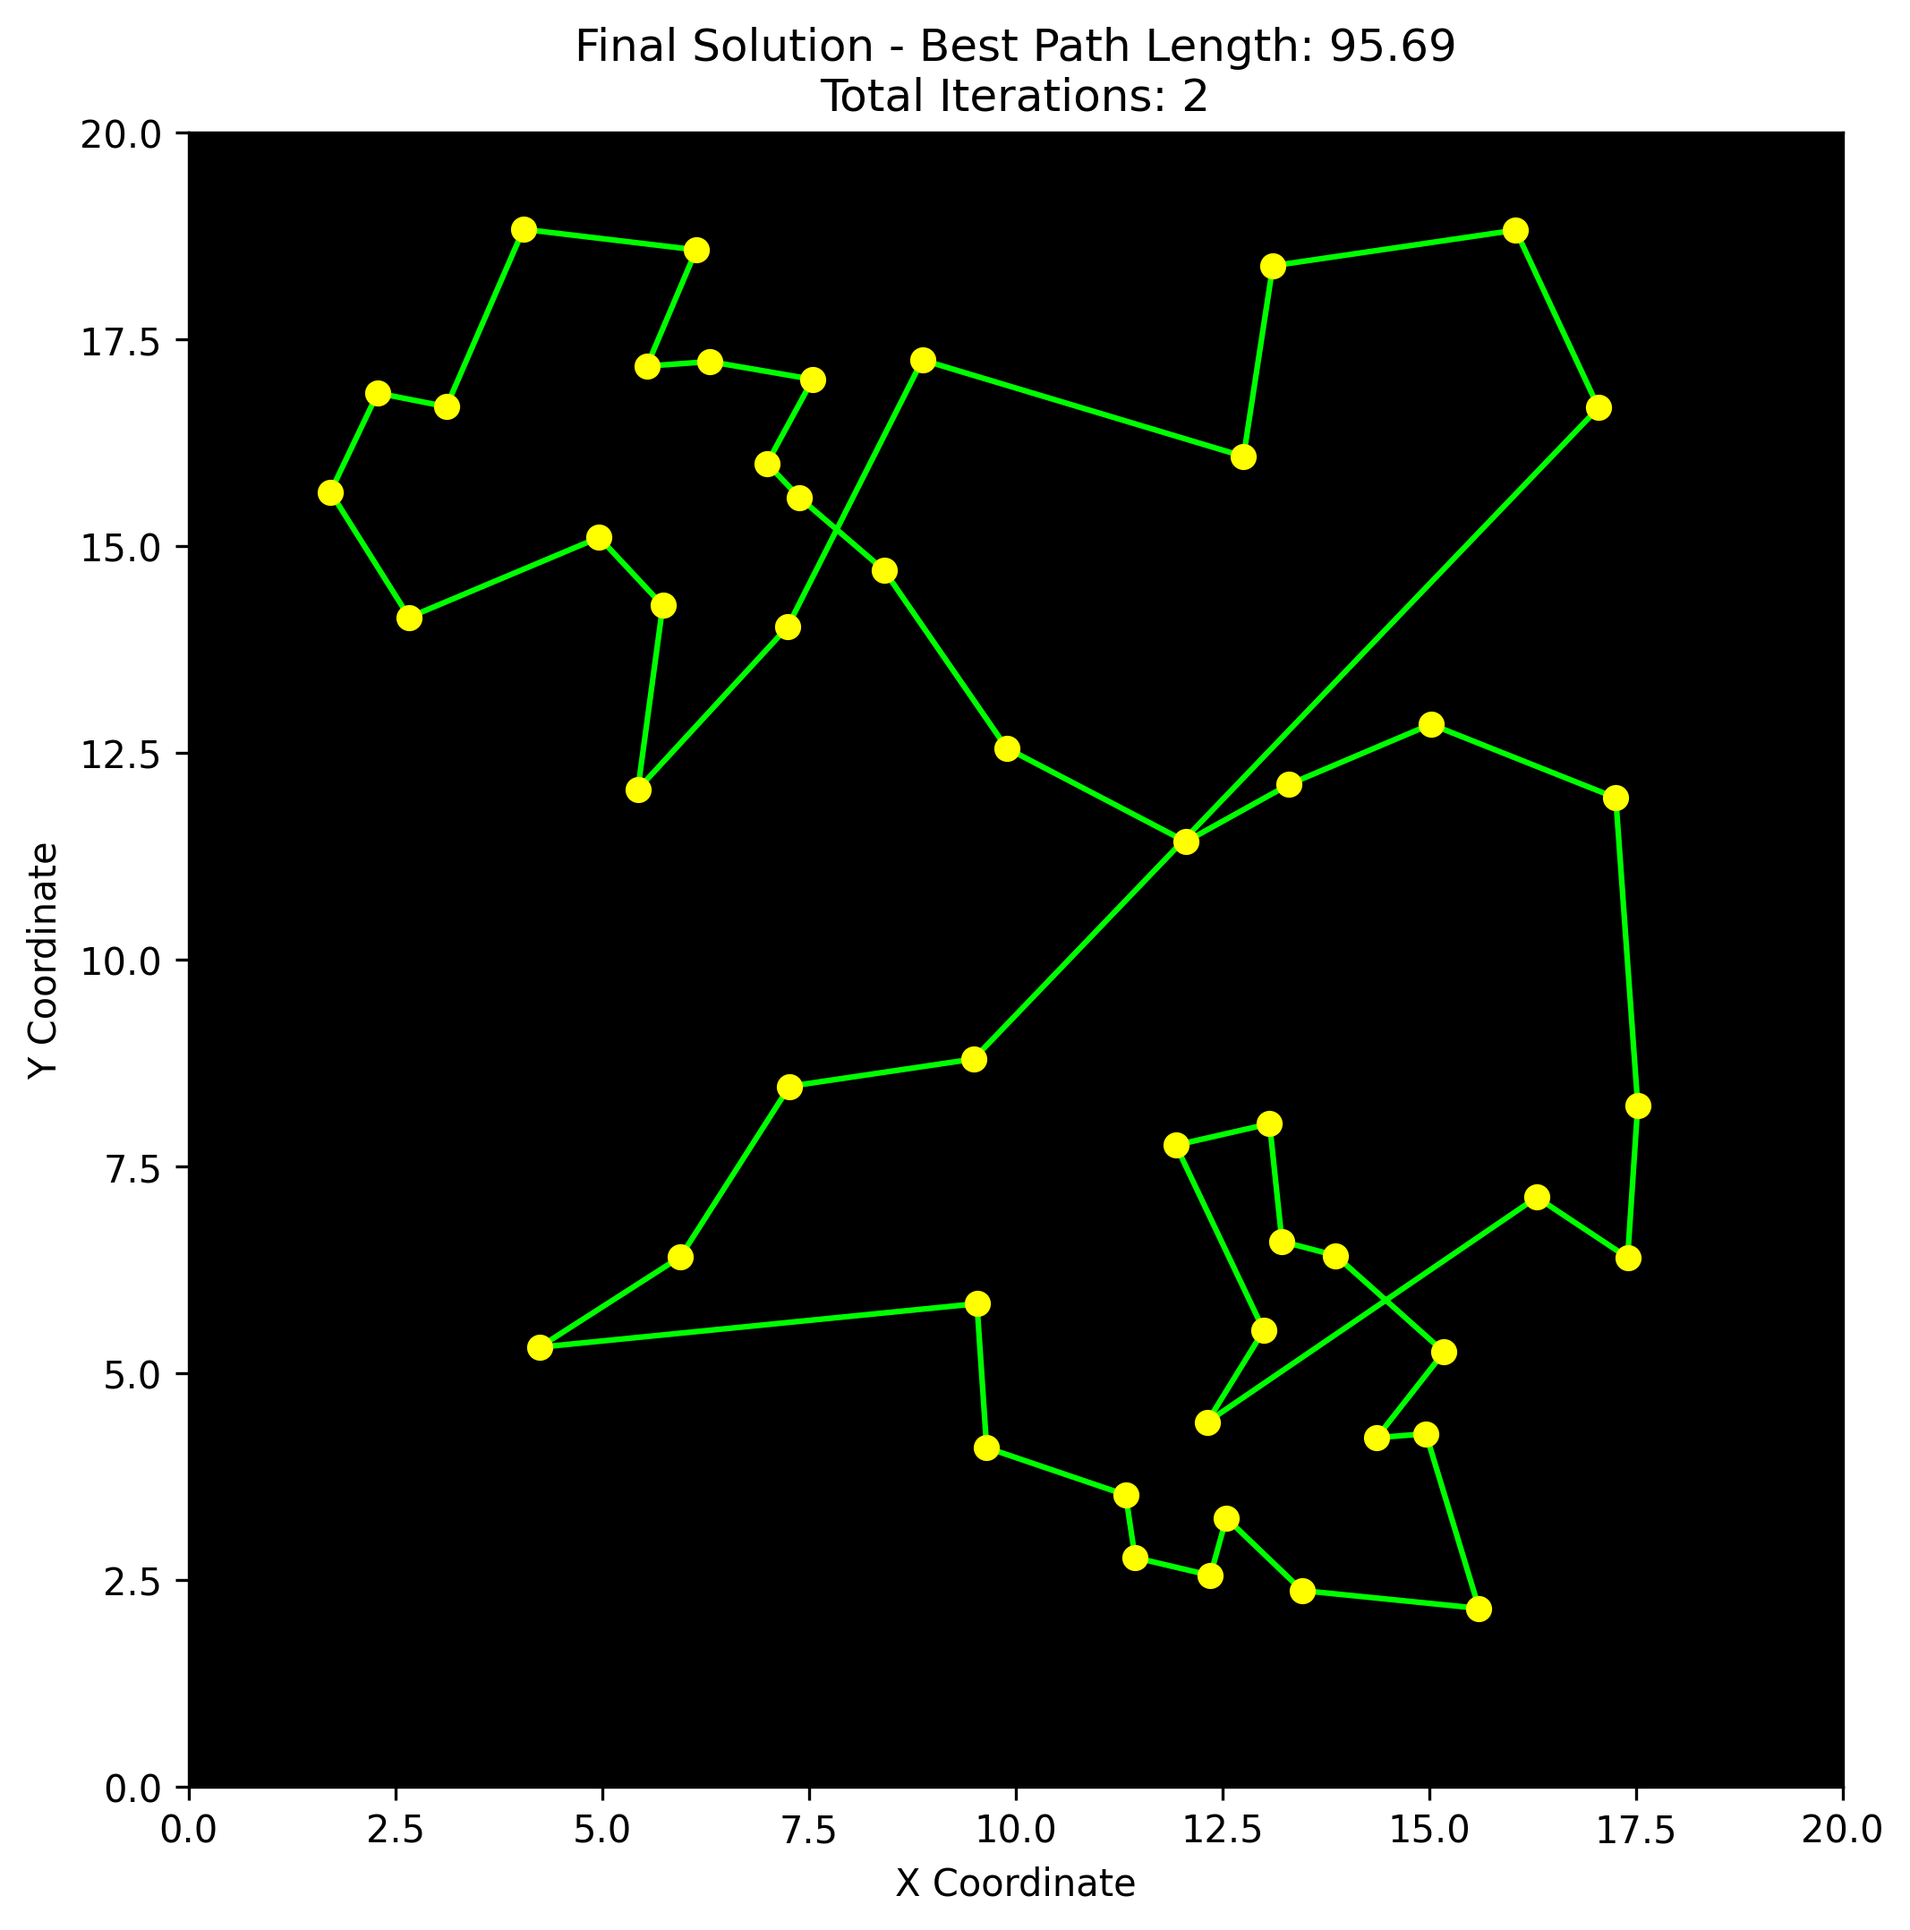
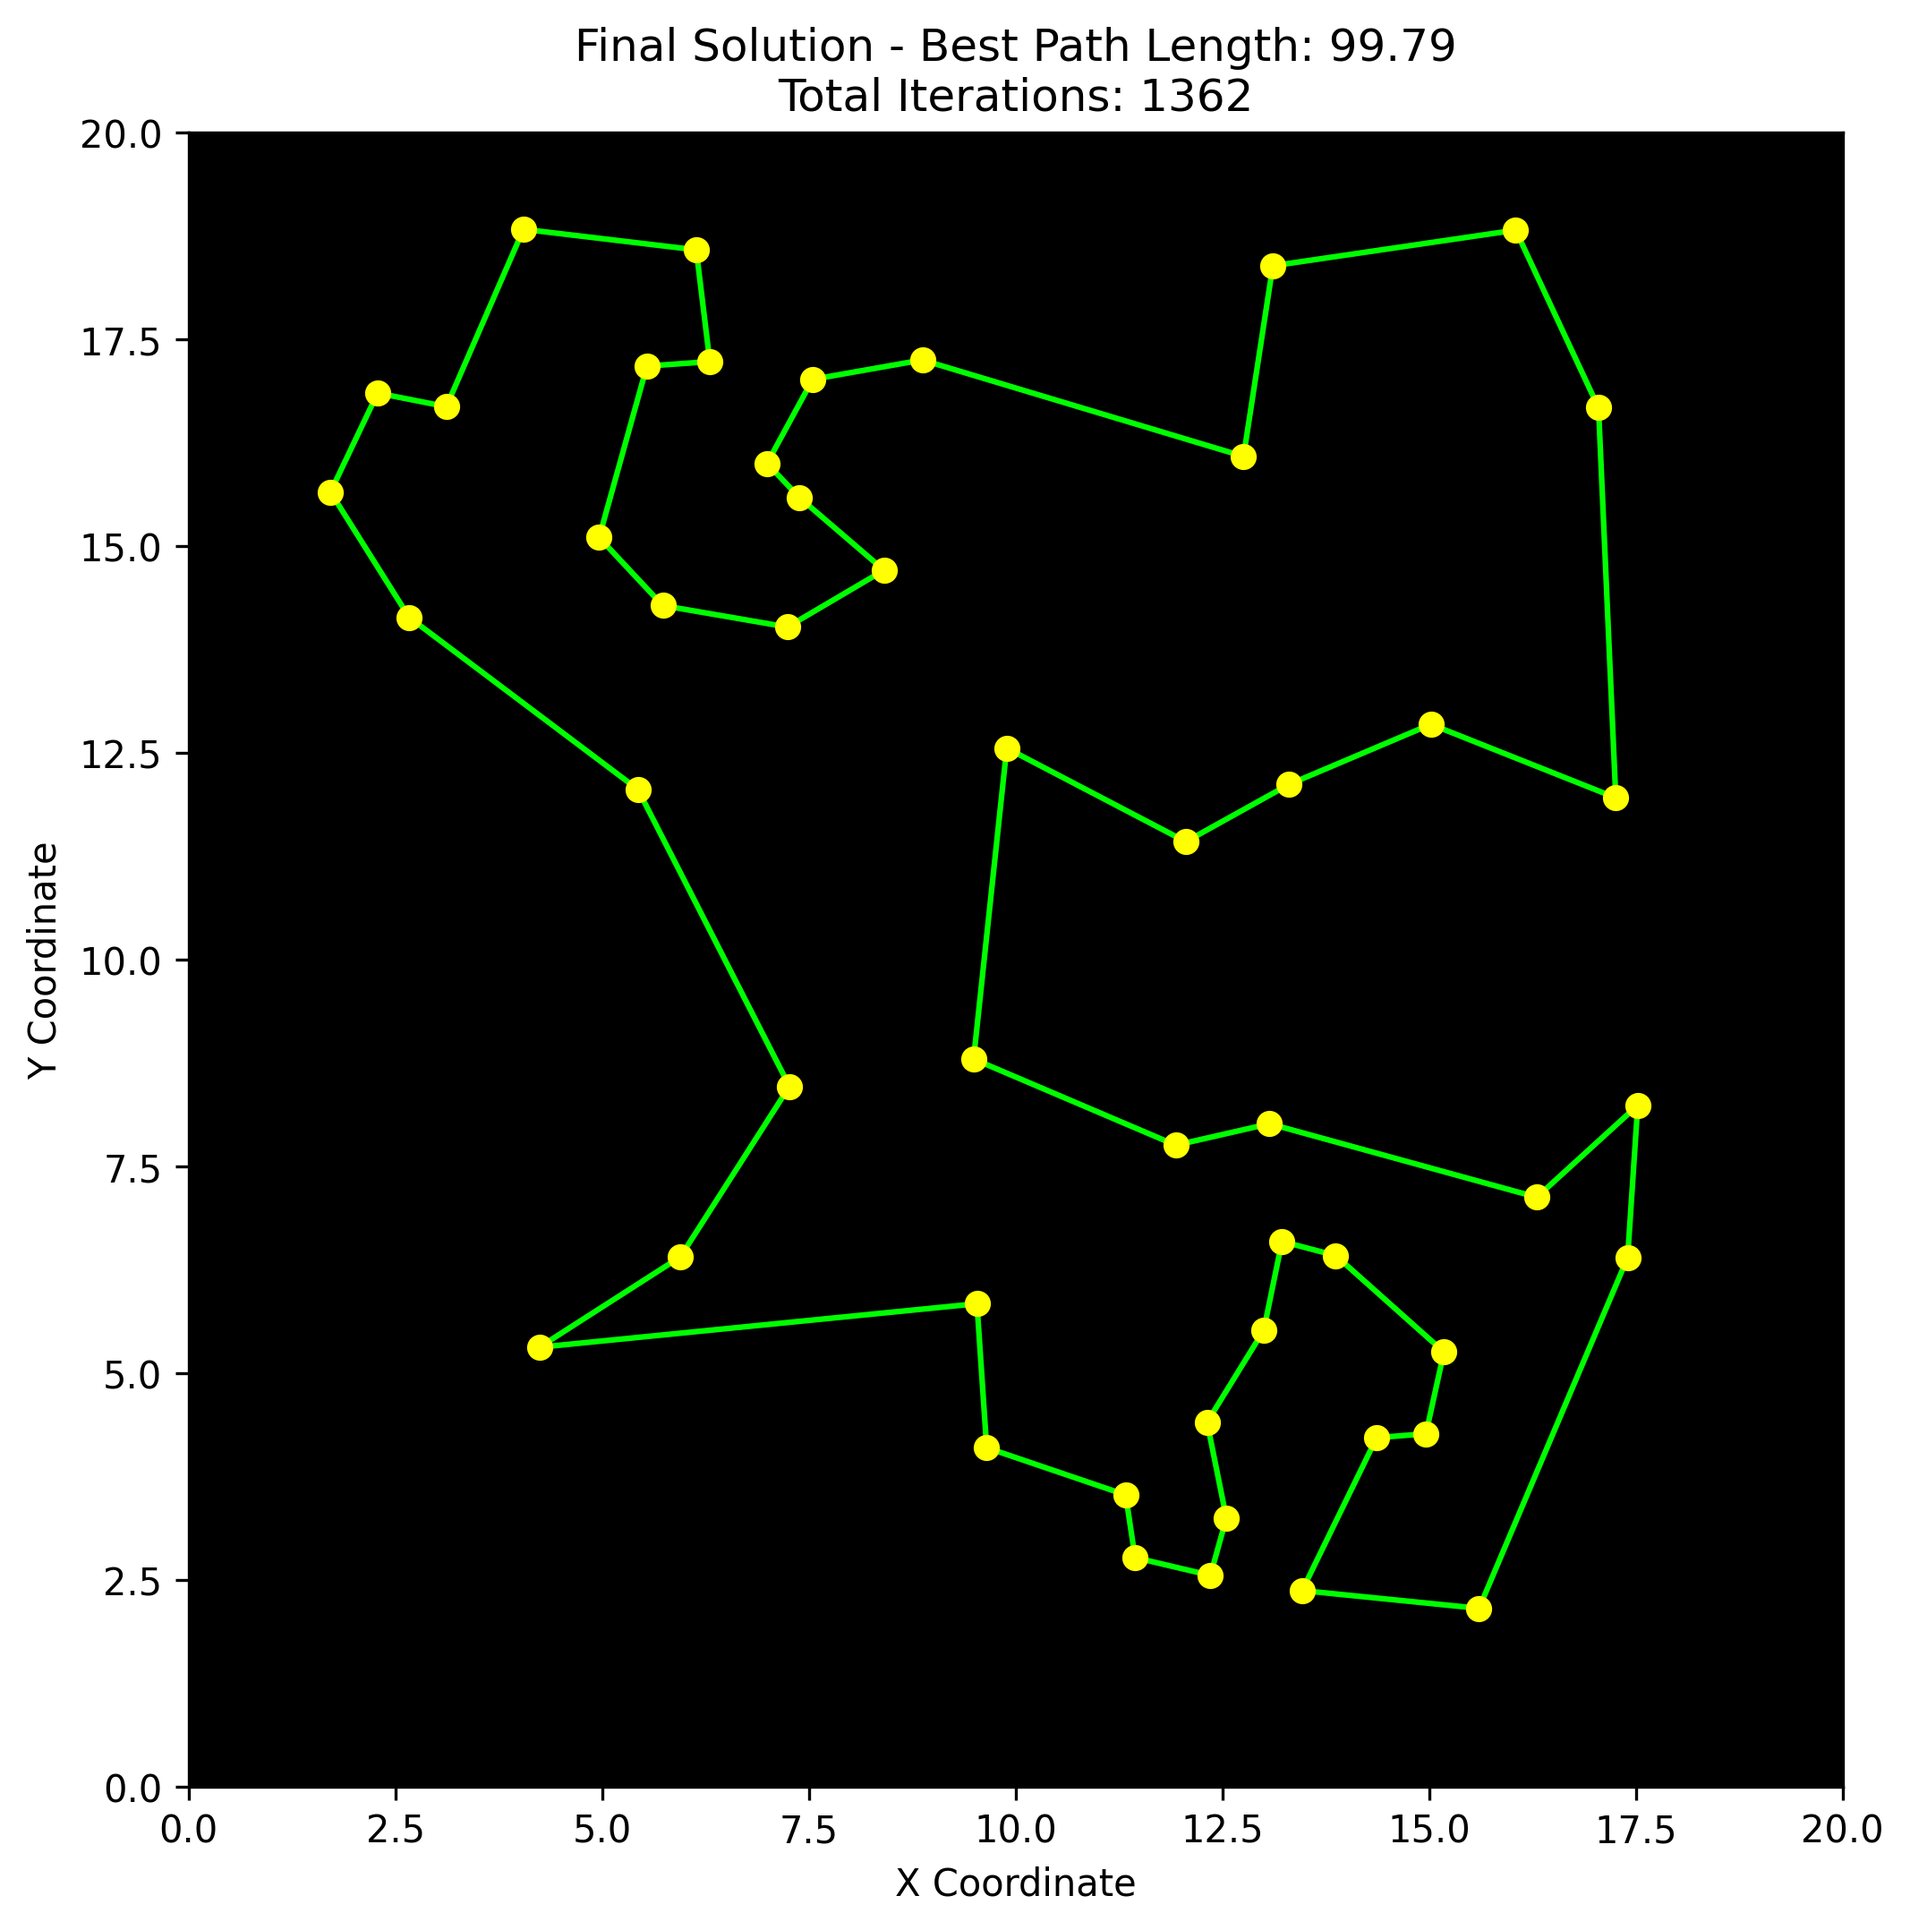
Finished 2.1

diff --git a/HP2.1/plot_test.py b/HP2.1/plot_test.py
@@ -1,7 +1,7 @@
 ########################################
 #
 # Simple illustration of how to animate
-# the plot for HP2.1. 
+# the plot for HP2.1.
 #
 # Note: The animation method below is quite crude.
 # If you prefer, you may use a more sophisticated approach,
@@ -17,32 +17,35 @@ import random
 #  Plots the cities (nodes):
 ##################################################
 
+
 def plot_cities(plt, city_locations):
-  # or use numpy if you prefer...
-  x = []
-  y = []
-  for city_index in range(len(city_locations)):
-    x.append(city_locations[city_index][0])
-    y.append(city_locations[city_index][1])
-  plt.scatter(x,y,zorder=1,color='yellow')
+    # or use numpy if you prefer...
+    x = []
+    y = []
+    for city_index in range(len(city_locations)):
+        x.append(city_locations[city_index][0])
+        y.append(city_locations[city_index][1])
+    plt.scatter(x, y, zorder=1, color="yellow")
+
 
 ##################################################
 #  Plots the path (connections between nodes):
 ##################################################
 def plot_path(plt, path):
 
-  connections_x = []
-  connections_y = []
-  for index in path:
-    location_x = city_locations[index][0]
-    connections_x.append(location_x)
-    location_y = city_locations[index][1]
-    connections_y.append(location_y)
-  start_location_x = city_locations[path[0]][0]
-  start_location_y = city_locations[path[0]][1]
-  connections_x.append(start_location_x)
-  connections_y.append(start_location_y)
-  plt.plot(connections_x,connections_y,color='lime',zorder=0)
+    connections_x = []
+    connections_y = []
+    for index in path:
+        location_x = city_locations[index][0]
+        connections_x.append(location_x)
+        location_y = city_locations[index][1]
+        connections_y.append(location_y)
+    start_location_x = city_locations[path[0]][0]
+    start_location_y = city_locations[path[0]][1]
+    connections_x.append(start_location_x)
+    connections_y.append(start_location_y)
+    plt.plot(connections_x, connections_y, color="lime", zorder=0)
+
 
 ######################################################
 # Main program
@@ -54,35 +57,36 @@ pause_interval = 0.05
 
 # Load data
 from city_data import city_locations
+
 number_of_cities = len(city_locations)
 
 # Generate a random path:
-path = np.random.permutation(number_of_cities) # https://numpy.org/doc/stable/reference/random/generated/numpy.random.permutation.html
+path = np.random.permutation(
+    number_of_cities
+)  # https://numpy.org/doc/stable/reference/random/generated/numpy.random.permutation.html
 
 # Prepare plot
-plt.xlim(0,plot_range)
-plt.ylim(0,plot_range)
+plt.xlim(0, plot_range)
+plt.ylim(0, plot_range)
 ax = plt.gca()
-ax.set_aspect('equal', adjustable='box')
-ax.set_facecolor('xkcd:black')
+ax.set_aspect("equal", adjustable="box")
+ax.set_facecolor("xkcd:black")
 
 
 for i in range(number_of_iterations):
-  # Swap two random nodes (NOT following Ant system - just for illustration!)
-  first_index = random.randint(0,len(path)-1)
-  first_node = path[first_index]
-  second_index = random.randint(0,len(path)-1)
-  path[first_index] = path[second_index]
-  path[second_index] = first_node
-  
-  # clear the plot, then plot nodes and connections
-  plt.cla()
-  plot_cities(plt,city_locations)
-  plot_path(plt,path)
-  plt.pause(pause_interval)
+    # Swap two random nodes (NOT following Ant system - just for illustration!)
+    first_index = random.randint(0, len(path) - 1)
+    first_node = path[first_index]
+    second_index = random.randint(0, len(path) - 1)
+    path[first_index] = path[second_index]
+    path[second_index] = first_node
+
+    # clear the plot, then plot nodes and connections
+    plt.cla()
+    plot_cities(plt, city_locations)
+    plot_path(plt, path)
+    plt.pause(pause_interval)
 
 plt.show(block=False)
 plt.ion()
-input(f'Press return to exit')
-
- 
+input(f"Press return to exit")

diff --git a/HP2.1/run_ant_system.py b/HP2.1/run_ant_system.py
@@ -106,14 +106,18 @@ def generate_path(pheromone_levels, visibility, alpha, beta):
 
 
 def get_path_length(path, city_locations):
-
-    path_length = 0
+    # Sum distances between consecutive cities and add distance from last back to first
     if len(path) < 2:
-        return path_length
+        return 0.0
+    path_length = 0.0
     for i in range(len(path) - 1):
         x1, y1 = city_locations[path[i]]
         x2, y2 = city_locations[path[i + 1]]
         path_length += math.dist((x1, y1), (x2, y2))
+    # closing edge (tour return)
+    x_first, y_first = city_locations[path[0]]
+    x_last, y_last = city_locations[path[-1]]
+    path_length += math.dist((x_last, y_last), (x_first, y_first))
     return path_length
 
 
@@ -127,14 +131,19 @@ def get_path_length(path, city_locations):
 def compute_delta_pheromone_levels(path_collection, path_length_collection):
     number_of_cities = len(path_collection[0])
     delta_pheromone_levels = np.zeros((number_of_cities, number_of_cities))
-
     for ant, path in enumerate(path_collection):
-        path_length = path_length_collection[ant]
-        pheromone_deposit = 1 / path_length
+        L = path_length_collection[ant]
+        if L == 0:
+            continue
+        deposit = 1.0 / L
         for i in range(len(path) - 1):
-            city_from = path[i]
-            city_to = path[i + 1]
-            delta_pheromone_levels[city_from][city_to] += pheromone_deposit
+            a = path[i]
+            b = path[i + 1]
+            delta_pheromone_levels[a][b] += deposit
+        # Add pheromone for closing edge to keep consistency with tour length
+        a = path[-1]
+        b = path[0]
+        delta_pheromone_levels[a][b] += deposit
     return delta_pheromone_levels
 
 
@@ -284,7 +293,7 @@ while minimum_path_length > target_path_length:
             plt.ylabel("Y Coordinate")
 
             # Update the display
-            plt.pause(0.1)  # Small pause to allow plot to update
+            plt.pause(0.1)
 
         path_collection.append(path)
         path_length_collection.append(path_length)
@@ -320,10 +329,14 @@ plt.xlabel("X Coordinate")
 plt.ylabel("Y Coordinate")
 plt.show()
 
+with open("HP2.1/best_path.py", "w", encoding="utf-8") as f:
+    f.write(f"best_path = {best_path}\n")
+    f.write(f"best_path_length = {minimum_path_length:.6f}\n")
+
 print(f"Optimization completed!")
 print(f"Best path length found: {minimum_path_length:.2f}")
 print(f"Total iterations: {iteration_index}")
 print(f"Target was: {target_path_length}")
-plt.savefig("ant_best_path.png", dpi=300, bbox_inches="tight")
+plt.savefig("HP2.1/ant_best_path.png", dpi=300, bbox_inches="tight")
 
 input(f"Press return to exit")

diff --git a/HP2.1/best_path.py b/HP2.1/best_path.py
@@ -1,0 +1,2 @@
+best_path = [27, 41, 33, 46, 29, 48, 36, 32, 47, 37, 44, 26, 38, 43, 39, 35, 7, 15, 20, 18, 6, 13, 21, 16, 23, 1, 11, 5, 14, 12, 9, 8, 22, 3, 4, 17, 0, 2, 10, 19, 28, 49, 31, 24, 25, 30, 42, 34, 40, 45]
+best_path_length = 99.791606
